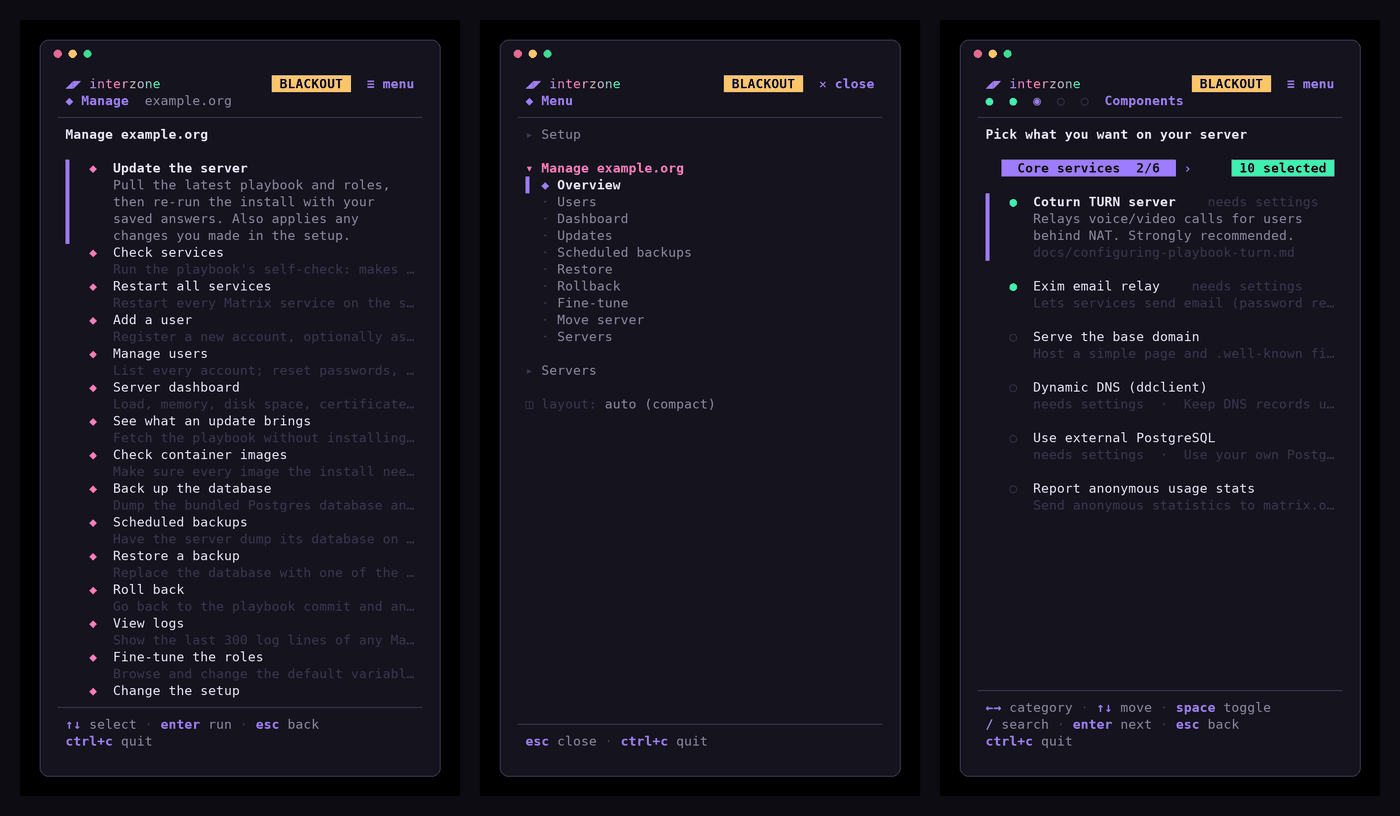
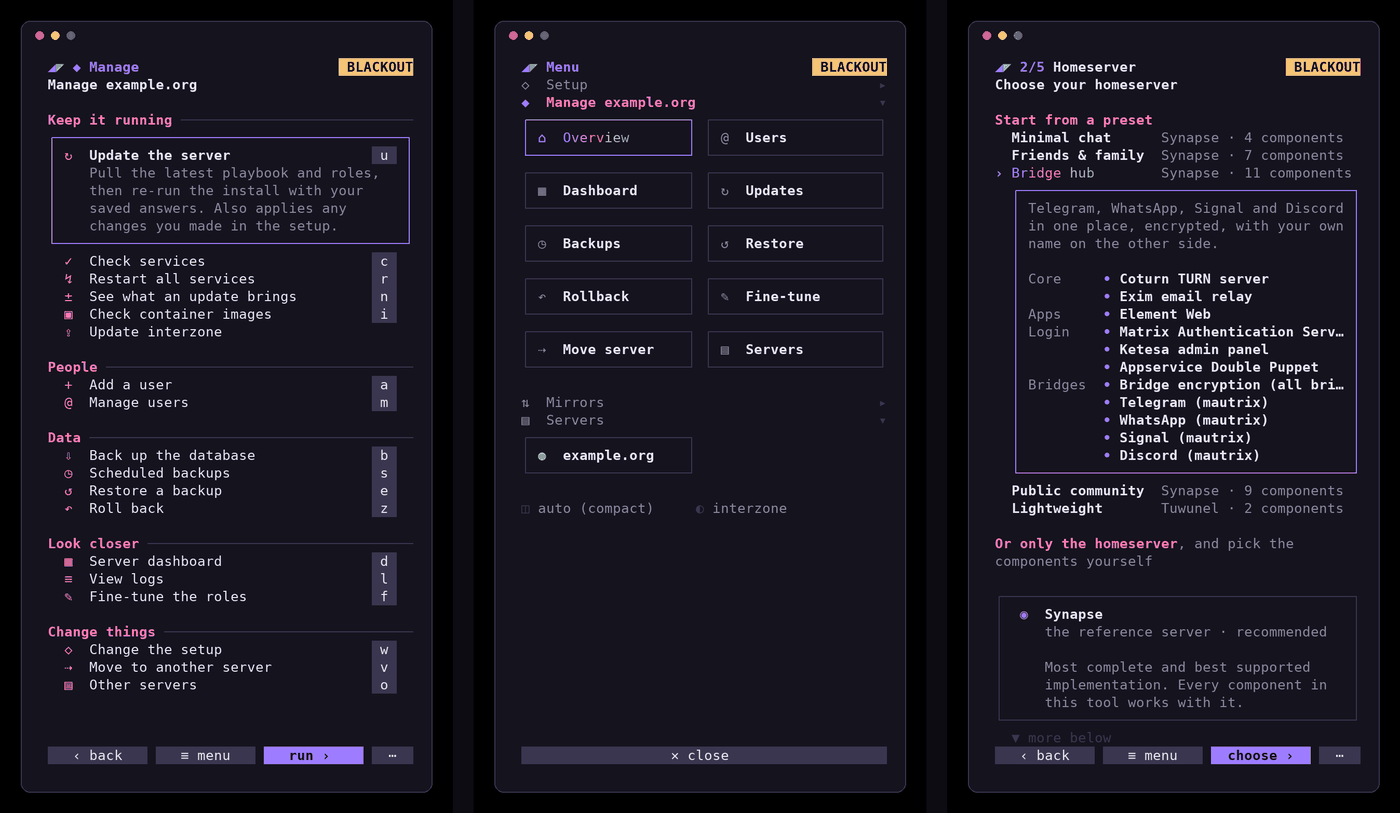
Retake the screenshots for the new cards, tiles and presets
The phone shot shows the tiled menu and a preset's bullets. The demo's
target is now 192.0.2.1, so screens that ask the server never reach a
real one, and the joined phone shot is 1400 px wide like the rest.

diff --git a/scripts/screenshots/render.py b/scripts/screenshots/render.py
@@ -62,7 +62,7 @@ if sys.argv[1] == "--join":
     x = 0
     for p in parts:
         out.paste(p, (x, 0)); x += p.width + GAP
-    finish(out, sys.argv[2])
+    finish(out, sys.argv[2], 1400)  # as wide as the other shots
     sys.exit()
 
 lines = open(sys.argv[1], encoding="utf-8").read().rstrip("\n").split("\n")
